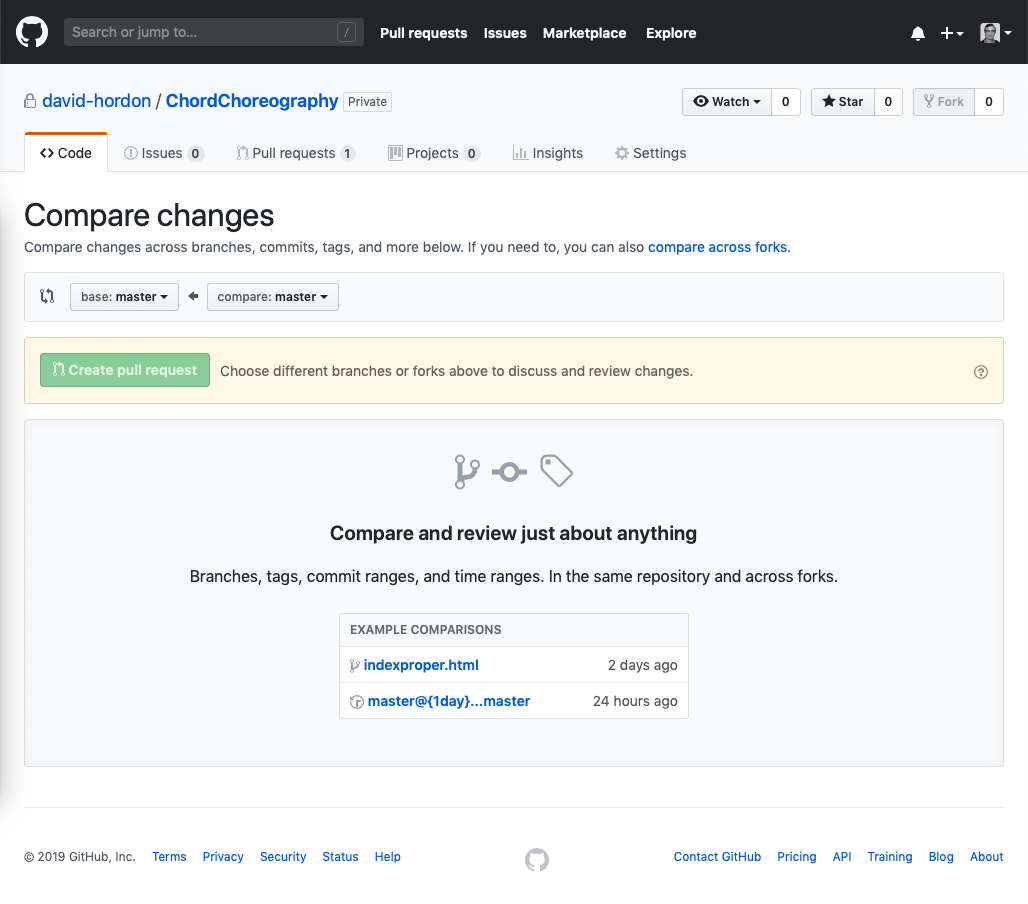
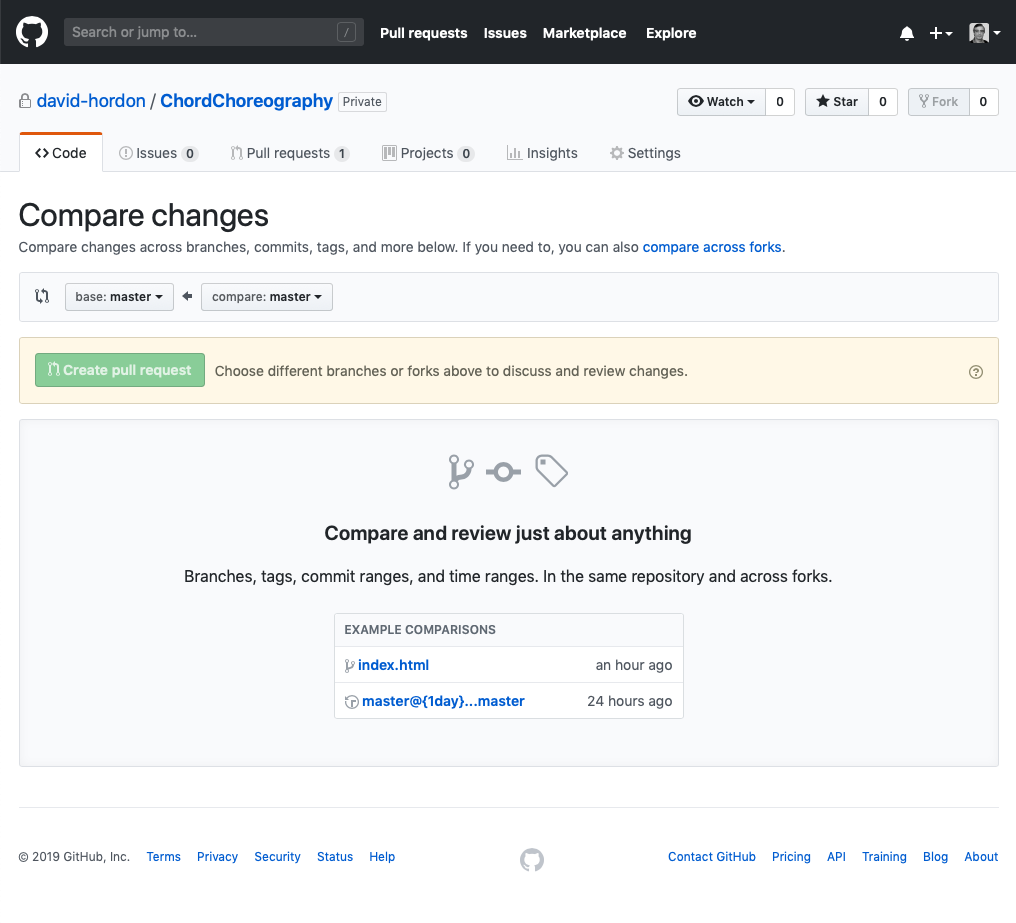
Latest update on Github pages.

diff --git a/pullRequest.html b/pullRequest.html
@@ -198,11 +198,13 @@ img {
 
   <p>To get back to here, click the <a href="#thePages">Back</a> link.</p>
 
+  <p>For this exercise I created a <strong>branch</strong> of the <strong>index.html</strong> file, which I then edited. Along with the first <strong>commit</strong> I also included a description, "Suggested edit to index.html." It's useful to know this because GitHub uses this description to name several important links and pages. So, when you see <strong>Suggested edits to index.html</strong>, remember it's not GitHub's default title, but simple quoting back my description text.</p>
+
   <p>So far as I presently understand, when it comes to responding to <strong>pull requests</strong>, there are eight pages we need to know about. I'm not certain what the <em>official</em> names for these pages are, but I've made up what I hope &lpar;for now at least&rpar; are useful, if cumbersome, descriptive titles for them.</p>
 
   <ul>
-    <li><a href="#repoFrontpage">The Repo Front Page</a></li>
-    <li><a href="#pullRequest2">The 'Pull request' Page</a></li>
+    <li><a href="#repoFrontpage">The 'Repo Front Page'</a></li>
+    <li><a href="#pullRequests">The 'Pull requests' Page</a></li>
     <li><a href="#branches">The 'branches' Page</a></li>
     <li><a href="#compareChanges">The 'Compare changes' Page</a></li>
     <li><a href="#comparingChanges">The 'Comparing changes' Page</a></li>
@@ -211,7 +213,7 @@ img {
     <li><a href="#review2">The 'Review' Page</a></li>
   </ul>
 
-  <p>There are several ways to get to each of the pages. I've begun to explore them, but only <em>begun</em>. The paths &lpar;from what I am calling the 'Repo Front Page'&rpar; are given above each full-size rendition of the page. If you know of other paths, please let me know.</p>
+  <p>There are several routes to all of these pages which I've begun to explore&mdash;but only <em>begun</em> to explore. Each <em>route</em> starts from what I am calling the <strong>Repo Front Page</strong> and details the path then followed to arrive at each destination page. These <em>routes</em> are given above each full-size rendition of a particular the page. If you know of other paths, please let me know.</p>
 
   <p>The pages are shown below in miniature: four-to-the-line, for a quick eyeful; and then, immediately below, two-to-the-line, where they are a little easier to identify.</p>
 
@@ -255,8 +257,10 @@ img {
 
   <h1>The Full-Size Pages</h1>
 
+  <!-- Repo Front Page 2 ------------------------------------------------------- -->
+
   <h2 id="repoFrontpage">The Repo Front Page</h2>
-  <h5><em>&lpar;Return to Repo Front Page:&rpar;</em> ChordChoreography <em>or</em> Code </h5>
+  <h5><em>To return to Repo Front Page click:</em> ChordChoreography <em>or</em> Code </h5>
   <img src="images/pages/repoFrontpage1.png">
   <img src="images/pages/repoFrontpage2.png">
 
@@ -264,8 +268,10 @@ img {
   <a href="#top">Top</a>
   <a href="#thePages">Back</a>
 
+  <!-- Repo Front Page 2 ------------------------------------------------------- -->
+
   <h2 id="repoFrontpage">The Repo Front Page 'Switch branches/tabs' Pane</h2>
-  <h5>Repo Front Page: &gt; Branch: <strong>master</strong> &gt; indexproper.html</h5>
+  <h5>Repo Front Page: &gt; Branch: <strong>master</strong> &gt; index.html</h5>
   <img src="images/pages/switchBranches1.png">
   <img src="images/pages/switchBranches2.png">
 
@@ -273,10 +279,12 @@ img {
   <a href="#top">Top</a>
   <a href="#thePages">Back</a>
 
-  <h2 id="pullRequest2">The <strong>Pull requests</strong> Page</h2>
-  <p>This page is directly linked from the <strong>Repo Front Page</strong>.</p>
+  <!-- Pull Requests ------------------------------------------------------- -->
 
-  <p>The <strong>New pull request</strong> green button links directly to the <strong>Compare Changes</strong> page. The <strong>Update to indexproper.html</strong> link takes us directly to the <strong>Update to &lt;file&gt;/Conversation</strong> tab.</p>
+  <h2 id="pullRequests">The <strong>Pull requests</strong> Page</h2>
+  <p>This page is linked directly from the <strong>Repo Front Page</strong>.</p>
+
+  <p>The <strong>New pull request</strong> green button links directly to the <strong>Compare Changes</strong> page. The <strong>Suggested edit to index.html</strong> link&mdash;which, remember, is <em>my</em> description, written along with the first commit&mdash;links directly to the <strong>Suggested edit to index.html/Conversation</strong> tab.</p>
   <h5>Repo Front Page &gt; Pull requests</h5>
   <img src="images/pages/pullRequests.png">
 
@@ -284,11 +292,13 @@ img {
   <a href="#top">Top</a>
   <a href="#thePages">Back</a>
 
+  <!-- Branches ------------------------------------------------------- -->
+
   <h2 id="branches">The <strong>branches</strong> Page</h2>
 
-  <p>This page is directly linked from the <strong>Repo Front Page</strong>.</p>
+  <p>This page is linked directly from the <strong>Repo Front Page</strong>.</p>
   
-  <p>I've yet to explore the <strong>Pull requests</strong> link on from this page, but I strongly suspect it will be the same as above. The <strong>Open</strong> green button&mdash;either button&mdash;takes us directly to the <strong>Update to &lt;file&gt;/Conversation</strong> tab.</p>
+  <p>I've yet to explore the <strong>Pull requests</strong> link on from this page, but I strongly suspect it will be the same as above. The <strong>Open</strong> green button&mdash;either button&mdash;takes us directly to the <strong>Suggested edit to index.html/Conversation</strong> tab.</p>
   <h5>Repo Front Page &gt; branches</h5>
   <img src="images/pages/branches.png">
 
@@ -296,11 +306,15 @@ img {
   <a href="#top">Top</a>
   <a href="#thePages">Back</a>
 
+  <!-- Compare Changes ------------------------------------------------------- -->
+
   <h2 id="compareChanges">The <strong>Compare changes</strong> Page</h2>
 
-  <p>This page is directly linked from the <strong>Repo Front Page</strong> via the <strong>New pull request</strong> green button on that page.</p>
+  <p>This page is linked directly from the <strong>Repo Front Page</strong>.</p>
 
-  <p>I'm not entirely sure what this page does, but I guess it let's you compare and review just about anything. The <strong>indexproper.html</strong> link takes us directly to the <strong>Comparing changes</strong> page&mdash;see next.</p>
+  <p>I'm not entirely sure what this page does, but I guess it let's you 'Compare and review just about anything.'</p>
+
+  <p>The <strong>index.html</strong> link goes directly to the <strong>Comparing changes</strong> page&mdash;see next.</p>
 
   <h5>Repo Front Page &gt; New pull request</h5>
   <h5>Repo Front Page &gt; Pull request &gt; New pull request</h5>
@@ -310,9 +324,11 @@ img {
   <a href="#top">Top</a>
   <a href="#thePages">Back</a>
 
+  <!-- Comparing Changes ------------------------------------------------------- -->
+
   <h2 id="comparingChanges">The <strong>Comparing changes</strong> Page</h2>
-  <h5>Repo Front Page &gt; New pull requests &gt; indexproper.html</h5>
-  <h5>Repo Front Page &gt; New pull requests &gt; compare: <strong>master</strong> &gt; indexproper.html</h5>
+  <h5>Repo Front Page &gt; New pull requests &gt; index.html</h5>
+  <h5>Repo Front Page &gt; New pull requests &gt; compare: <strong>master</strong> &gt; index.html</h5>
   <img src="images/pages/comparingChanges1.png">
   <img src="images/pages/comparingChanges2.png">
 
@@ -320,13 +336,17 @@ img {
   <a href="#top">Top</a>
   <a href="#thePages">Back</a>
 
-  <h2 id="conversation">The Page, <strong>Update to &lt;file&gt;#/Conversation</strong>'s Tab</h2>
+  <!-- Update to Index: Conversation Tab ------------------------------------------ -->
+
+  <h2 id="conversation">The <strong>Conversation</strong> Page</h2>
 
   <p>'All roads lead to Rome.'</p>
 
-  <p>This is an important page because it's where all previous discussions about a <strong>Pull request</strong> are to be found and viewed. Further, a new <strong>comment</strong> can be added. Or a decision to <strong>Merge pull request</strong> made. But hold off for a moment, because, if you move from the default <strong>Conversation</strong> tab you're on right now, and choose the <strong>Files changed</strong> tab&lpar;up next&rpar; there are one of three qualifiers you can add to your comments, as well as the ability to flick between your comments and the edits you're commenting on.</p>
+  <p>This page is actually more a <em>Tab</em> than a <em>Page</em>. The host page is <strong>Suggested edit to index.html</strong> which, you may recall, is not a GitHub page title, but a quote back of my original description. If you look below that title, you will see four tabs: <strong>Conversation</strong>, <strong>Commits</strong>, <strong>Checks</strong> and <strong>Files changed</strong>. (But only the first and last of these concern us here.)</p>
 
-  <p>This page has two important tabs which are pertinent to the present task, the <strong>Conversion</strong> tab, which appears to be the default; and the <strong>Files changed</strong> tab.</p>
+  <p>This is an important page because it's where all previous discussions about a <strong>Pull request</strong> are to be found and viewed. Further, a new <strong>comment</strong> can be added. Or a decision to <strong>Merge pull request</strong> made.</p>
+
+  <p>But hold off for a moment, please, because if you move from the default <strong>Conversation</strong> tab you're on right now, and choose the <strong>Files changed</strong> tab&lpar;up next&rpar; there are one of three qualifiers you can add to your comments, as well as the ability to flick between your comments and the edits you're commenting on.</p>
 
   <h5>Repo Front Page &gt; branches &gt; Open</h5>
   <h5>Repo First Page: &gt; Branch: <strong>master</strong> &gt; indexproper.html &gt; View #1</h5>
@@ -341,6 +361,8 @@ img {
   <a href="#top">Top</a>
   <a href="#thePages">Back</a>
 
+  <!-- Update to Index: Files Change Tab ------------------------------------------ -->
+
   <h2 id="filesChanged">The Page <strong>Update to &lt;file&gt;#/Files changed</strong> Tab</h2>
   <h5>Repo Front Page &gt; New pull request &gt; compare: <strong>master</strong> &gt; indexproper.html&gt; View pull request &gt; Files changed</h5>
   <img src="images/pages/filesChanged.png">
@@ -348,6 +370,8 @@ img {
   <div style="height: 60px;"></div>
   <a href="#top">Top</a>
   <a href="#thePages">Back</a>
+
+  <!-- Update to Index: Files Change Tab ------------------------------------------ -->
 
   <h2 id="review2">The 'Update to &lt;file&gt;' Page&mdash;'Review changes'</h2>
   <h5>Repo Front Page &gt; New pull requests &gt; compare: <strong>master</strong> &gt; indexproper.html &gt; View pull request &gt; Files changed &gt; Review changes</h5>
